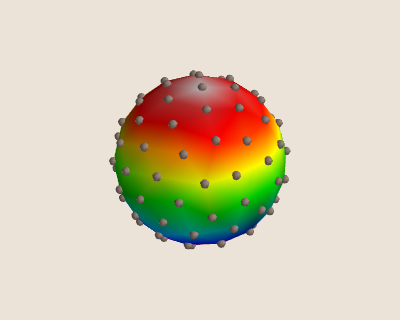
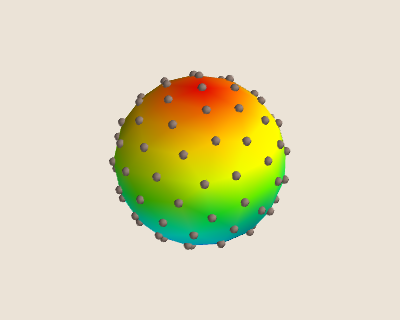
changed figure colours for balls

Changed region(s): [[0.27, 0.2188, 0.72, 0.7812]]

diff --git a/Figures/DemoFigures.py b/Figures/DemoFigures.py
@@ -85,9 +85,9 @@ def makefinegrid():
     coor=make_coor(20j)
 
     mlab.figure(fgcolor=fgcol,bgcolor=bgcol)
-    mlab.mesh(coor.x, coor.y, coor.z,colormap='spectral')
+    mlab.mesh(coor.x, coor.y, coor.z)
     mlab.points3d(coor.x, coor.y, coor.z, 
-                      scale_factor=0.1,colormap='spectral')
+                      scale_factor=0.1)
     savefig('finegrid.png')
 makefinegrid()
 
@@ -137,11 +137,11 @@ def makecoarsegrid():
 
     mlab.figure(fgcolor=fgcol,bgcolor=bgcol)
     mlab.points3d(coor.x, coor.y, coor.z, 
-                      scale_factor=0.1,colormap='spectral')
-    mlab.triangular_mesh(coor.x,coor.y,coor.z,sphere.faces,colormap='spectral')
+                      scale_factor=0.1)
+    mlab.triangular_mesh(coor.x,coor.y,coor.z,sphere.faces)
     savefig('coarsegrid.png')
     mlab.close()
-# makecoarsegrid()
+makecoarsegrid()
 
 
 def make_sphere(coordinates):
@@ -185,38 +185,37 @@ def make_figures(coor, fun, interp_results, error):
     mlab.figure(fgcolor=fgcol,bgcolor=bgcol)
     vmax, vmin = np.max(fun.fine), np.min(fun.fine)
     mlab.mesh(coor.fine.x, coor.fine.y, coor.fine.z,
-              scalars=fun.fine, vmax=vmax, vmin=vmin,colormap='spectral')
+              scalars=fun.fine, vmax=vmax, vmin=vmin)
     mlab.points3d(coor.coarse.x, coor.coarse.y, coor.coarse.z, fun.coarse,
-                  scale_factor=0.1, scale_mode='none', vmax=vmax, vmin=vmin,colormap='spectral')
+                  scale_factor=0.1, scale_mode='none', vmax=vmax, vmin=vmin)
     mlab.colorbar(
         # title='Spherical Harmonic', 
         orientation='vertical')
-    mlab.savefig('functionsphere.png')
+    mlab.savefig('poorfunctionsphere.png')
     mlab.close()
 
     # Figure showing results of rbf interpolation
     mlab.figure(fgcolor=fgcol,bgcolor=bgcol)
     mlab.mesh(coor.fine.x, coor.fine.y, coor.fine.z,
-              scalars=interp_results, vmax=vmax, vmin=vmin,colormap='spectral')
+              scalars=interp_results, vmax=vmax, vmin=vmin)
     mlab.points3d(coor.coarse.x, coor.coarse.y, coor.coarse.z, fun.coarse,
-                  scale_factor=0.1, scale_mode='none', vmax=vmax, vmin=vmin,colormap='spectral')
+                  scale_factor=0.1, scale_mode='none', vmax=vmax, vmin=vmin)
     mlab.colorbar(
         # title='Interpolation', 
         orientation='vertical')
-    mlab.savefig('interpsphere.png')
+    mlab.savefig('poorinterpsphere.png')
     # mlab.show()
     mlab.close()
 
     mlab.figure(fgcolor=fgcol,bgcolor=bgcol)
     mlab.mesh(coor.fine.x, coor.fine.y, coor.fine.z,
-              scalars=error.errors, vmax=error.max, vmin=-error.max,colormap='spectral')
+              scalars=error.errors, vmax=error.max, vmin=-error.max)
     mlab.colorbar(
         # title='Error', 
         orientation='vertical')
     # mlab.points3d(coor.coarse.x, coor.coarse.y, coor.coarse.z, scalars, scale_factor=0.1, scale_mode='none',vmax=vmax, vmin=vmin)
-    mlab.savefig('errorsphere.png')
+    mlab.savefig('poorerrorsphere.png')
     mlab.close()
-
 
 def makemayavifigs():
     # Create coordinate system
@@ -236,33 +235,34 @@ def makemayavifigs():
     error = interp_error(function.fine, interp_values)
 
     make_figures(coor, function, interp_values, error)
+makemayavifigs()
+def makeoptimizationfig():
+    # makemayavifigs()
+    coor = coordinates(300j, 100)
 
-# makemayavifigs()
-coor = coordinates(300j, 100)
+        #Create sphere object
+    sphere = make_sphere(coor.coarse)
+                                                                                                                                                                            
+        # Harmonic function we'll interpolate
+    function = harmonic(3, 4, coor)
 
-    #Create sphere object
-sphere = make_sphere(coor.coarse)
-                                                                                                                                                                        
-    # Harmonic function we'll interpolate
-function = harmonic(3, 4, coor)
+    errors=[]
+    epsilons = np.linspace(1.4,5,20)
+    for epsilon in epsilons:
+        interp_values = rbf_interpolate(coor, function.coarse, epsilon=epsilon)
+        error = interp_error(function.fine, interp_values)
+        maxerror =  error.max
+        errors.append(maxerror)
 
-errors=[]
-epsilons = np.linspace(1.4,5,20)
-for epsilon in epsilons:
-    interp_values = rbf_interpolate(coor, function.coarse, epsilon=epsilon)
-    error = interp_error(function.fine, interp_values)
-    maxerror =  error.max
-    errors.append(maxerror)
-
-fig, ax = plt.subplots(facecolor=bgcol)                                                                                                                                                                                                                                                                                                                                                                
-ax.set_axis_bgcolor(bgcol)
-ax.set_xlabel('Shape Parameter, $\epsilon$')
-ax.set_ylabel('Maximum Error')
-plt.plot(epsilons,errors, 'bo')
-optimum = errors.index(np.min(errors))
-plt.plot(epsilons[optimum],errors[optimum],'ro')
-plt.savefig('optimizationcurve')                                                                                                                                                                                                                                                                                                                                                                                                                                                                                                                                                                                                                                                                                                                                                                                                                                                                                                                                                                                                                                                                                                                                                                                                                                                                                                                                                                                                                                                                                                                                                                                                                                                                                                                                                                                                                                                                                                                                                                                                                                                                                                                                                                                                                                                                                                                                                                                                                                                                                                                                                                                                                                                                                                                                                                                                                                                                                                                                                                                                                                                                                                                                                                                                                                                                                                                                                                                                                                                                                                                                                                                                                                                                                                                                                                                                                                                                                                                                                                                                                                                                                                                                                                                                                                                                                                                                                                                                                                                                                                                                                                                                                                                                                                                                                                                                                                                                                                                                                                                                                                                                                                                                                                                                                                                                                                                                                                                                                                                                                                                                                                                                                                                                                                                                                                                                                                                                                                                                                                                                                                                                                                                                                                                                                                                                                                                                                                                                                                                                                                                                                                                                                                                                                                                                                                                                                                                                                                                                                                                                                                                                                                                                                                                                                                                                                                                                                                                                                                                                                                                                                                                                                                                                                                                                                                                                                                                                                                                                                                                                                                                                                                                                                                                                                                                                                                                                                                                                                                                                                                                                                                                                                                                                                                                                                                                                                                                                                                                                                                                                                                                                                                                                                                                                                                                                                                                                                                                                                                                                                                                                                                                                                                                                                                                                                                                                                                                                                                                                                                                                                                                                                                                                                                                                                                                                                                                                                                                                                                                                                                                                                                                                                                                                                                                                                                                                                                                                                                                                                                                                                                                                                                                                                                                                                                                                                                                                                                                                                                                                                                                                                                                                                                                                                                                                                                                                                                                                                                                                                                                                                                                                                                                                                                                                                                                                                                                                                                                                                                                                                                                                                                                                                                                                                                                                                                                                                                                                                                                                                                                                                                                                                                                                                                                                                                                                                                                                                                                                                                                                                                                                                                                                                                                                                                                                                                                                                                                                                                                                                                                                                                                                                                                                                                                                                                                                                                                                                                                                                                                                                                                                                                                                                                                                                                                                                                                                                                                                                                                                                                                                                                                                                                                                                                                                                                                                                                                                                                                                                                                                                                                                                                                                                                                                                                                                                                                                                                                                                                                                                                                                                                                                                                                                                                                                                                                                                                                                                                                                                                                                                                                                                                                                                                                                                                                                                                                                                                                                                                                                                                                                                                                                                                                                                                                                                                                                                                                                                                                                                                                                                                                                                                                                                                                                                                                                                                                                                                                                                                                                                                                                                                                                                                                                                                                                                                                                                                                                                                                                                                                                                                                                                                                                                                                                                                                                                                                                                                                                                                                                                                                                                                                                                                                                                                                                                                                                                                                                                                                                                                                                                                                                                                                                                                                                                                                                                                                                                                                                                                                                                                                                                                                                                                                                                                                                                                                                                                                                                                                                                                                                                                                                                                                        
-plt.show()
+    fig, ax = plt.subplots(facecolor=bgcol)                                                                                                                                                                                                                                                                                                                                                                
+    ax.set_axis_bgcolor(bgcol)
+    ax.set_xlabel('Shape Parameter, $\epsilon$')
+    ax.set_ylabel('Maximum Error')
+    plt.plot(epsilons,errors, 'bo')
+    optimum = errors.index(np.min(errors))
+    plt.plot(epsilons[optimum],errors[optimum],'ro')
+    plt.savefig('optimizationcurve')                                                                                                                                                                                                                                                                                                                                                                                                                                                                                                                                                                                                                                                                                                                                                                                                                                                                                                                                                                                                                                                                                                                                                                                                                                                                                                                                                                                                                                                                                                                                                                                                                                                                                                                                                                                                                                                                                                                                                                                                                                                                                                                                                                                                                                                                                                                                                                                                                                                                                                                                                                                                                                                                                                                                                                                                                                                                                                                                                                                                                                                                                                                                                                                                                                                                                                                                                                                                                                                                                                                                                                                                                                                                                                                                                                                                                                                                                                                                                                                                                                                                                                                                                                                                                                                                                                                                                                                                                                                                                                                                                                                                                                                                                                                                                                                                                                                                                                                                                                                                                                                                                                                                                                                                                                                                                                                                                                                                                                                                                                                                                                                                                                                                                                                                                                                                                                                                                                                                                                                                                                                                                                                                                                                                                                                                                                                                                                                                                                                                                                                                                                                                                                                                                                                                                                                                                                                                                                                                                                                                                                                                                                                                                                                                                                                                                                                                                                                                                                                                                                                                                                                                                                                                                                                                                                                                                                                                                                                                                                                                                                                                                                                                                                                                                                                                                                                                                                                                                                                                                                                                                                                                                                                                                                                                                                                                                                                                                                                                                                                                                                                                                                                                                                                                                                                                                                                                                                                                                                                                                                                                                                                                                                                                                                                                                                                                                                                                                                                                                                                                                                                                                                                                                                                                                                                                                                                                                                                                                                                                                                                                                                                                                                                                                                                                                                                                                                                                                                                                                                                                                                                                                                                                                                                                                                                                                                                                                                                                                                                                                                                                                                                                                                                                                                                                                                                                                                                                                                                                                                                                                                                                                                                                                                                                                                                                                                                                                                                                                                                                                                                                                                                                                                                                                                                                                                                                                                                                                                                                                                                                                                                                                                                                                                                                                                                                                                                                                                                                                                                                                                                                                                                                                                                                                                                                                                                                                                                                                                                                                                                                                                                                                                                                                                                                                                                                                                                                                                                                                                                                                                                                                                                                                                                                                                                                                                                                                                                                                                                                                                                                                                                                                                                                                                                                                                                                                                                                                                                                                                                                                                                                                                                                                                                                                                                                                                                                                                                                                                                                                                                                                                                                                                                                                                                                                                                                                                                                                                                                                                                                                                                                                                                                                                                                                                                                                                                                                                                                                                                                                                                                                                                                                                                                                                                                                                                                                                                                                                                                                                                                                                                                                                                                                                                                                                                                                                                                                                                                                                                                                                                                                                                                                                                                                                                                                                                                                                                                                                                                                                                                                                                                                                                                                                                                                                                                                                                                                                                                                                                                                                                                                                                                                                                                                                                                                                                                                                                                                                                                                                                                                                                                                                                                                                                                                                                                                                                                                                                                                                                                                                                                                                                                                                                                                                                                                                                                                                                                                                                                                                                                                                                                                                                        
+    plt.show()
 
 
 
